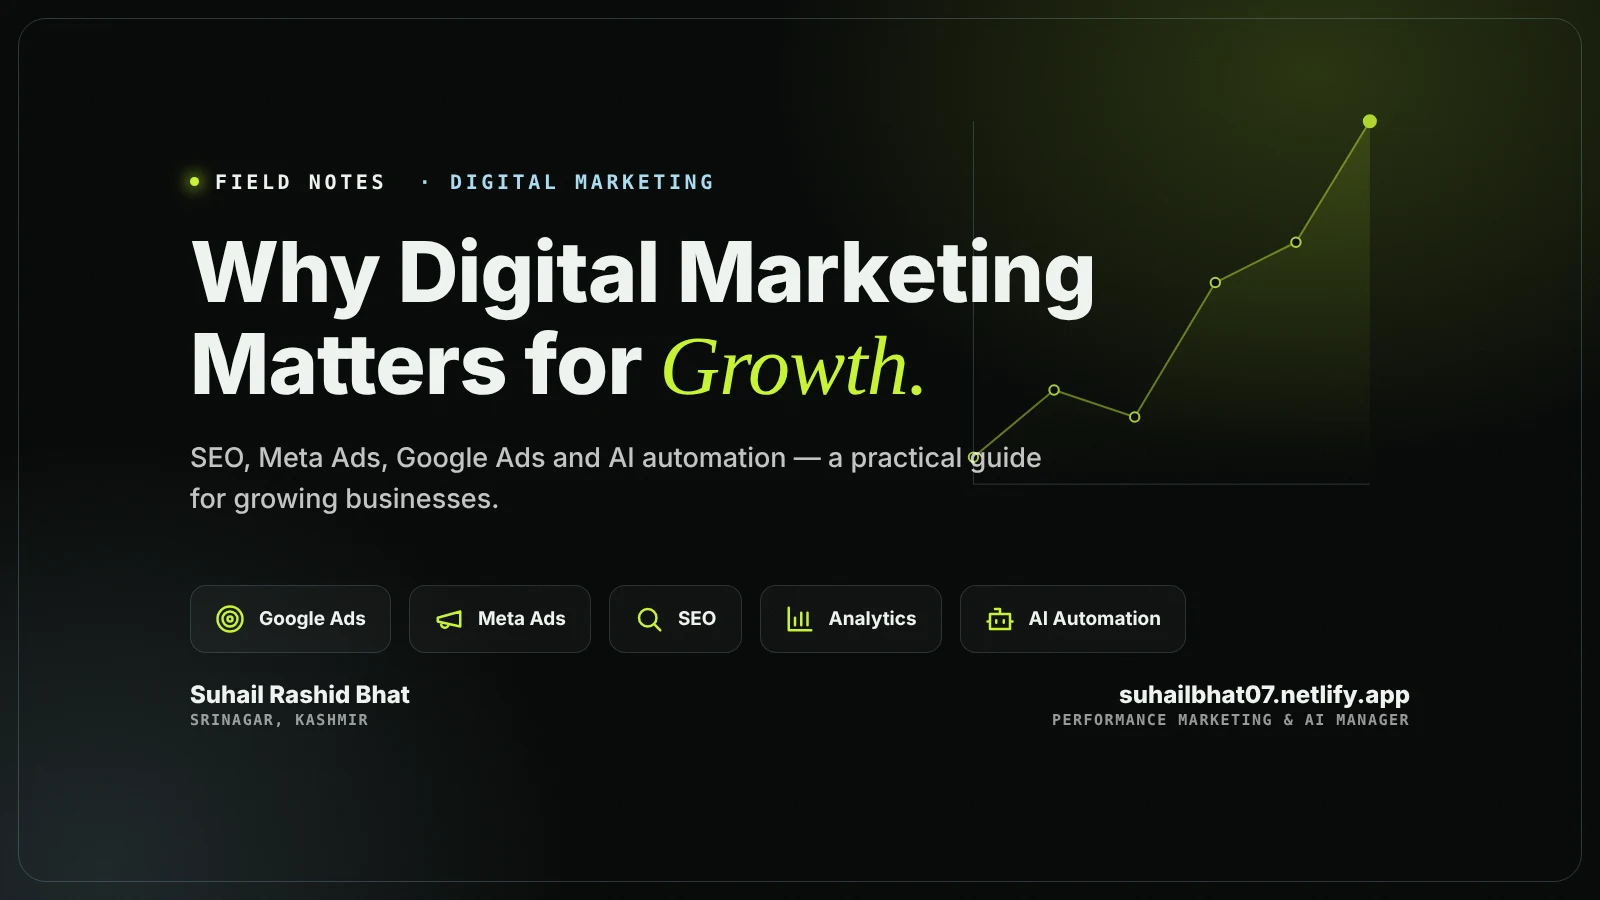
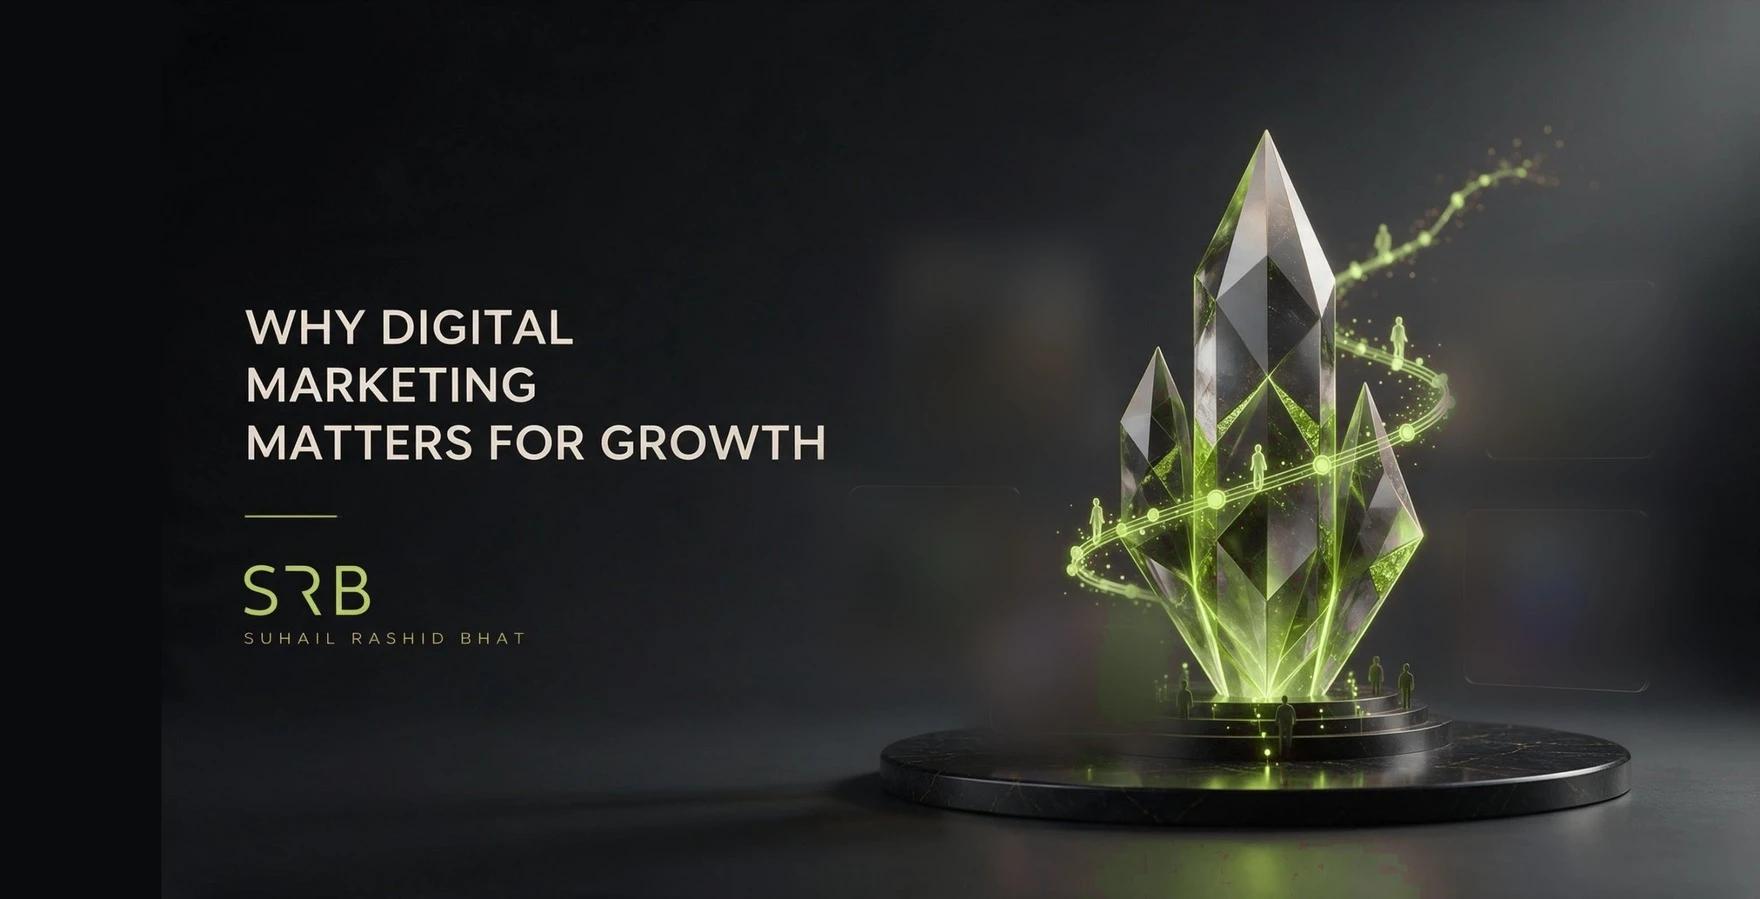
Replace blog featured image with user-supplied, brand-matched artwork
Swaps in the image the user generated and shared, after two fixes so
it's safe to publish:

- Removed the 5 floating "dashboard" cards baked into the original
  render (SEO +3.2%, Digital Ads +23.8%, Traffic 5.7%, Leads/Sales/ROI,
  Audience Engagement) — these were AI-generated placeholder numbers
  that would read as real campaign results once published as this
  article's cover and OG/social-share image, which conflicts with this
  project's no-fabricated-statistics rule. Inpainted over each card
  with a locally blurred background fill so the crystal centerpiece and
  headline stay intact with no visible seams.
- Recolored the gold/bronze accents to the site's actual lime-green
  brand color (#c6f432) via a targeted HSV hue shift (gold hue band
  only, by saturation/value threshold, so the cream headline text and
  black background are untouched) — the original was a different
  palette than the rest of the site.
- Padded the canvas on the left so the headline text survives the
  crop in the narrower 16/11 featured-card container (its original
  margin was too tight and would have clipped "WHY").

Re-exported as the cover (resized, WebP) and a dedicated 1200x630 OG
crop (JPEG) from the same cleaned/recolored/padded source. Updated the
post's imageAlt to describe the new artwork accurately.

Claude-Session: https://claude.ai/code/session_01P1jEAL79oN9wVxm8eojPMV

diff --git a/content/blog/importance-of-digital-marketing.md b/content/blog/importance-of-digital-marketing.md
@@ -3,7 +3,7 @@ title: "Why Digital Marketing Is Important for Businesses in 2026"
 slug: "importance-of-digital-marketing"
 description: "Why digital marketing matters for small and growing businesses — the core benefits, the strategies that actually work, and a practical first-90-days plan."
 image: "/assets/img/blog/importance-of-digital-marketing-cover.webp"
-imageAlt: "Illustration of digital marketing growth — Google Ads, Meta Ads, SEO, analytics and AI automation icons arranged around a rising growth line"
+imageAlt: "A glowing lime-green crystal formation on a dark podium, representing digital marketing growth, with the headline 'Why Digital Marketing Matters for Growth' and the Suhail Rashid Bhat (SRB) logo"
 category: "Digital Marketing"
 tags: ["Digital Marketing", "Performance Marketing", "SEO", "Meta Ads", "Google Ads", "AI Automation"]
 author: "Suhail Rashid Bhat"
